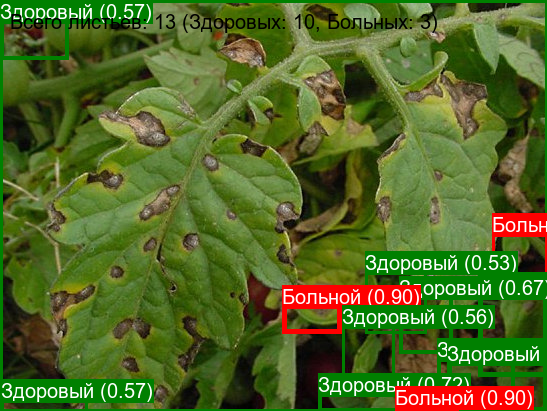
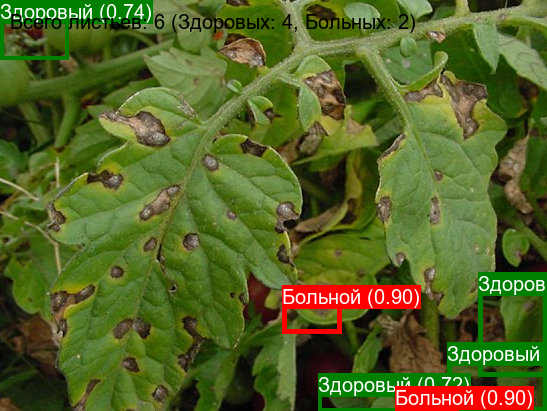
Увеличен порог уверенности для отображения листьев до 0.7

Changed region(s): [[0.2176, 0.0, 1.0, 0.9051], [0.0, 0.146, 0.5905, 1.0], [0.9324, 0.8759, 0.9634, 0.9343]]

diff --git a/tools/detect_leaves.py b/tools/detect_leaves.py
@@ -11,7 +11,7 @@ from cnn_model import load_model
 from cnn_visualize import preprocess_image, predict_image
 
 def detect_leaves(image_path, model_path, output_path=None, device='cpu', 
-                  min_blob_size=300, detection_threshold=0.5):
+                  min_blob_size=300, detection_threshold=0.7):
     """
     Обнаружение и классификация отдельных листьев на изображении
     с использованием алгоритма водораздела (watershed)
@@ -235,7 +235,7 @@ def process_directory(input_dir, model_path, output_dir=None, device='cpu'):
         
         try:
             result_image, leaf_count, healthy_count, diseased_count = detect_leaves(
-                image_path, model_path, output_path, device
+                image_path, model_path, output_path, device, detection_threshold=0.7
             )
             
             print(f"Найдено листьев: {leaf_count} (Здоровых: {healthy_count}, Больных: {diseased_count})")
